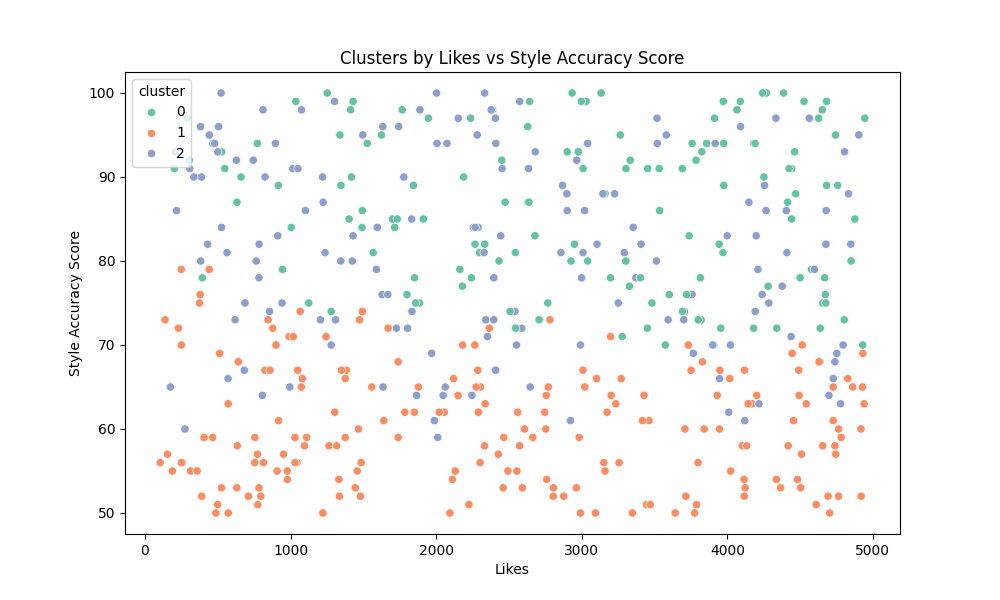
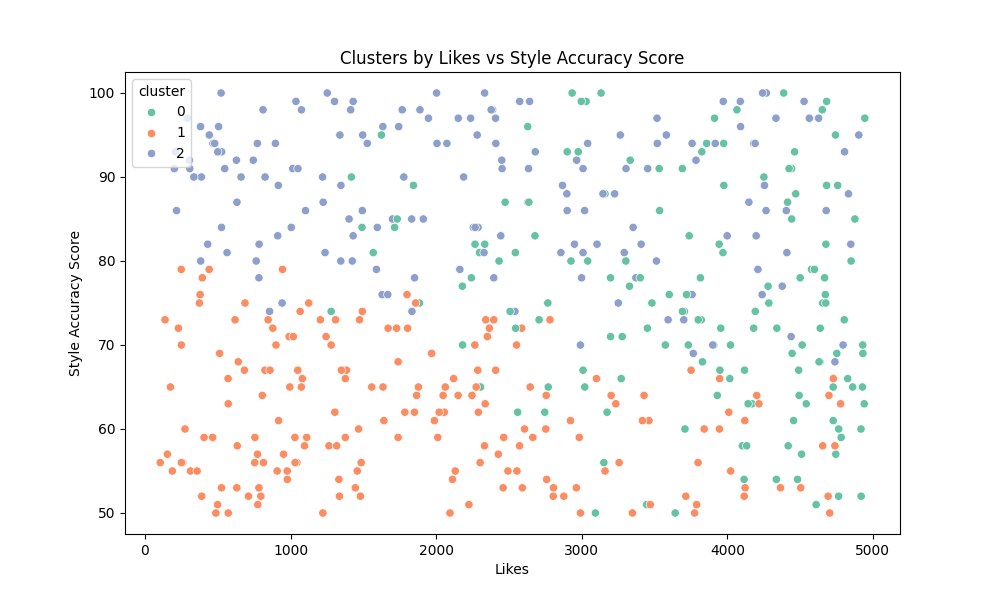
Your message

diff --git a/image_prediction_updated.py b/image_prediction_updated.py
@@ -6,12 +6,10 @@ import re
 import warnings
 warnings.filterwarnings("ignore")
 
-from sklearn.model_selection import train_test_split, GridSearchCV
+from sklearn.model_selection import train_test_split
 from sklearn.preprocessing import StandardScaler
 from sklearn.decomposition import PCA
-from sklearn.linear_model import LinearRegression
-from sklearn.ensemble import RandomForestRegressor, GradientBoostingRegressor, IsolationForest
-from sklearn.metrics import mean_squared_error, mean_absolute_error, r2_score
+from sklearn.ensemble import IsolationForest
 from sklearn.feature_extraction.text import TfidfVectorizer
 from sklearn.cluster import KMeans
 
@@ -26,9 +24,8 @@ df.dropna(inplace=True)
 # Feature Engineering
 # =======================
 print("\n=== FEATURE ENGINEERING ===")
-# Log-transform likes
-df['likes_log'] = np.log1p(df['likes'])  # log(1 + likes)
-df['likes_original'] = df['likes']       # keep original likes for visualization
+# Keep original likes for visualization
+df['likes_original'] = df['likes']
 
 # Clean and process prompt text
 df['prompt_clean'] = df['prompt'].apply(lambda x: re.sub(r'[^a-zA-Z ]', '', str(x).lower()))
@@ -42,20 +39,17 @@ tfidf_df = pd.DataFrame(tfidf_matrix, columns=[f'tfidf_{i}' for i in range(tfidf
 # Combine TF-IDF with original dataframe
 df = pd.concat([df.reset_index(drop=True), tfidf_df.reset_index(drop=True)], axis=1)
 
-# Add interaction term
-df['gpu_likes_interaction'] = df['gpu_usage'] * df['likes']
-
 # =======================
 # Dimensionality Reduction (PCA)
 # =======================
 print("\n=== DIMENSIONALITY REDUCTION ===")
 # Define columns to drop
-drop_cols = ['prompt', 'prompt_clean', 'likes_log', 'likes_original']
+drop_cols_pca = ['prompt', 'prompt_clean', 'likes_original', 'likes']
 if 'image_id' in df.columns:
-    drop_cols.append('image_id')
+    drop_cols_pca.append('image_id')
 
 # Get numerical features for PCA
-X_for_pca = df.drop(columns=drop_cols).select_dtypes(include=[np.number])
+X_for_pca = df.drop(columns=drop_cols_pca).select_dtypes(include=[np.number])
 
 # Scale features
 scaler_pca = StandardScaler()
@@ -67,108 +61,14 @@ X_pca = pca.fit_transform(X_pca_scaled)
 
 # Save PCA plot
 plt.figure(figsize=(8, 5))
-plt.scatter(X_pca[:, 0], X_pca[:, 1], c=df['likes_log'], cmap='coolwarm', s=10)
-plt.colorbar(label='Log(Likes)')
+plt.scatter(X_pca[:, 0], X_pca[:, 1], c=df['likes'], cmap='coolwarm', s=10)
+plt.colorbar(label='Likes')
 plt.title("PCA - Feature Reduction Visualization")
 plt.xlabel("PC1")
 plt.ylabel("PC2")
 plt.tight_layout()
 plt.savefig("pca_visualization.png")
 plt.close()
-
-# =======================
-# Likes Prediction Modeling
-# =======================
-print("\n=== LIKES PREDICTION MODELING ===")
-target_likes = 'likes_log'
-
-# Prepare feature set for likes prediction
-drop_cols_likes = ['style_accuracy_score', 'prompt', 'prompt_clean', 'likes_log', 'likes_original']
-if 'image_id' in df.columns:
-    drop_cols_likes.append('image_id')
-
-X_likes = df.drop(columns=drop_cols_likes).select_dtypes(include=[np.number])
-y_likes = df[target_likes]
-
-# Scale features
-scaler_likes = StandardScaler()
-X_likes_scaled = scaler_likes.fit_transform(X_likes)
-
-# Train-Test Split for likes prediction
-X_train_likes, X_test_likes, y_train_likes, y_test_likes = train_test_split(
-    X_likes_scaled, y_likes, test_size=0.2, random_state=42
-)
-
-# =======================
-# Evaluation Function
-# =======================
-def evaluate_model(y_true, y_pred, model_name):
-    mse = mean_squared_error(y_true, y_pred)
-    rmse = np.sqrt(mse)
-    mae = mean_absolute_error(y_true, y_pred)
-    r2 = r2_score(y_true, y_pred)
-    print(f"\n[{model_name}] Evaluation Metrics:")
-    print(f"  MSE  : {mse:.4f}")
-    print(f"  RMSE : {rmse:.4f}")
-    print(f"  MAE  : {mae:.4f}")
-    print(f"  R²   : {r2:.4f}")
-    return {"MSE": mse, "RMSE": rmse, "MAE": mae, "R²": r2}
-
-# =======================
-# Likes Prediction Models
-# =======================
-print("\n=== TRAINING LIKES PREDICTION MODELS ===")
-# Linear Regression
-lr_likes = LinearRegression()
-lr_likes.fit(X_train_likes, y_train_likes)
-y_pred_lr_likes = lr_likes.predict(X_test_likes)
-lr_likes_metrics = evaluate_model(y_test_likes, y_pred_lr_likes, "Linear Regression (Likes)")
-
-# Grid Search for Random Forest
-print("\n=== HYPERPARAMETER TUNING FOR RANDOM FOREST ===")
-rf_grid = {
-    'n_estimators': [100, 150],
-    'max_depth': [None, 10, 20],
-    'min_samples_split': [2, 5]
-}
-rf_gs = GridSearchCV(RandomForestRegressor(random_state=42), rf_grid, cv=3, scoring='neg_mean_squared_error')
-rf_gs.fit(X_train_likes, y_train_likes)
-rf_best = rf_gs.best_estimator_
-y_pred_rf_likes = rf_best.predict(X_test_likes)
-rf_likes_metrics = evaluate_model(y_test_likes, y_pred_rf_likes, "Tuned Random Forest (Likes)")
-
-# Grid Search for Gradient Boosting
-print("\n=== HYPERPARAMETER TUNING FOR GRADIENT BOOSTING ===")
-gb_grid = {
-    'n_estimators': [100],
-    'learning_rate': [0.1, 0.05],
-    'max_depth': [3, 5]
-}
-gb_gs = GridSearchCV(GradientBoostingRegressor(random_state=42), gb_grid, cv=3, scoring='neg_mean_squared_error')
-gb_gs.fit(X_train_likes, y_train_likes)
-gb_best = gb_gs.best_estimator_
-y_pred_gb_likes = gb_best.predict(X_test_likes)
-gb_likes_metrics = evaluate_model(y_test_likes, y_pred_gb_likes, "Gradient Boosting (Tuned, Likes)")
-
-# Feature Importance Analysis
-print("\n=== FEATURE IMPORTANCE ANALYSIS ===")
-importances = rf_best.feature_importances_
-important_indices = np.argsort(importances)[::-1][:20]
-important_features = X_likes.columns[important_indices]
-
-# Print top 10 important features
-print("\nTop 10 Important Features for Likes Prediction:")
-for i, feature in enumerate(important_features[:10]):
-    print(f"{i+1}. {feature}: {importances[important_indices[i]]:.4f}")
-
-# RF with Top 20 Features
-X_important = X_likes[important_features]
-X_imp_scaled = scaler_likes.fit_transform(X_important)
-X_train_imp, X_test_imp, y_train_imp, y_test_imp = train_test_split(X_imp_scaled, y_likes, test_size=0.2, random_state=42)
-rf_imp = RandomForestRegressor(random_state=42)
-rf_imp.fit(X_train_imp, y_train_imp)
-y_pred_imp = rf_imp.predict(X_test_imp)
-rf_imp_metrics = evaluate_model(y_test_imp, y_pred_imp, "RF with Top 20 Important Features (Likes)")
 
 # =======================
 # Anomaly Detection on GPU Usage
@@ -184,7 +84,7 @@ print(f"\n[Anomaly Detection] Total anomalies detected in GPU usage: {total_anom
 # =======================
 print("\n=== CLUSTERING ANALYSIS ===")
 # Define features for clustering
-clustering_features = ['gpu_usage', 'likes_log', 'style_accuracy_score']
+clustering_features = ['gpu_usage', 'likes', 'style_accuracy_score']
 X_cluster = df[clustering_features]
 X_cluster_scaled = StandardScaler().fit_transform(X_cluster)
 
@@ -322,20 +222,6 @@ print("\n" + "="*60)
 print("🔍 FINAL PROJECT SUMMARY: AI Ghibli Art Engagement Analysis")
 print("="*60)
 
-# 📊 Likes Prediction Regression Summary
-print("\n📊 Likes Prediction Model Results:")
-likes_results = {
-    "Linear Regression": lr_likes_metrics,
-    "Tuned Random Forest": rf_likes_metrics,
-    "Gradient Boosting (Tuned)": gb_likes_metrics,
-    "RF (Top 20 Features)": rf_imp_metrics
-}
-
-for model, metrics in likes_results.items():
-    print(f"\n🔹 {model}:")
-    for metric, value in metrics.items():
-        print(f"   {metric: <6}: {value:.4f}")
-
 # 🚨 Anomaly Detection Summary
 print(f"\n🚨 Anomaly Detection:")
 print(f"   ➤ Total anomalies in GPU usage: {total_anomalies}")
@@ -355,7 +241,6 @@ print(top_by_likes_multi[['platform', 'gpu_usage_rounded', 'resolution', 'top_ke
 
 # Data Info
 print(f"\nData Loaded from: {df.shape[0]} rows and {df.shape[1]} columns.")
-print(f"Important Features for Likes Prediction: {important_features[:10].to_list()}")
 print(f"Clusters identified: {df['cluster'].nunique()} unique clusters.")
 print(f"Top Common Keyword Combinations: {df['top_keywords'].value_counts().head(5).index.tolist()}")
 
